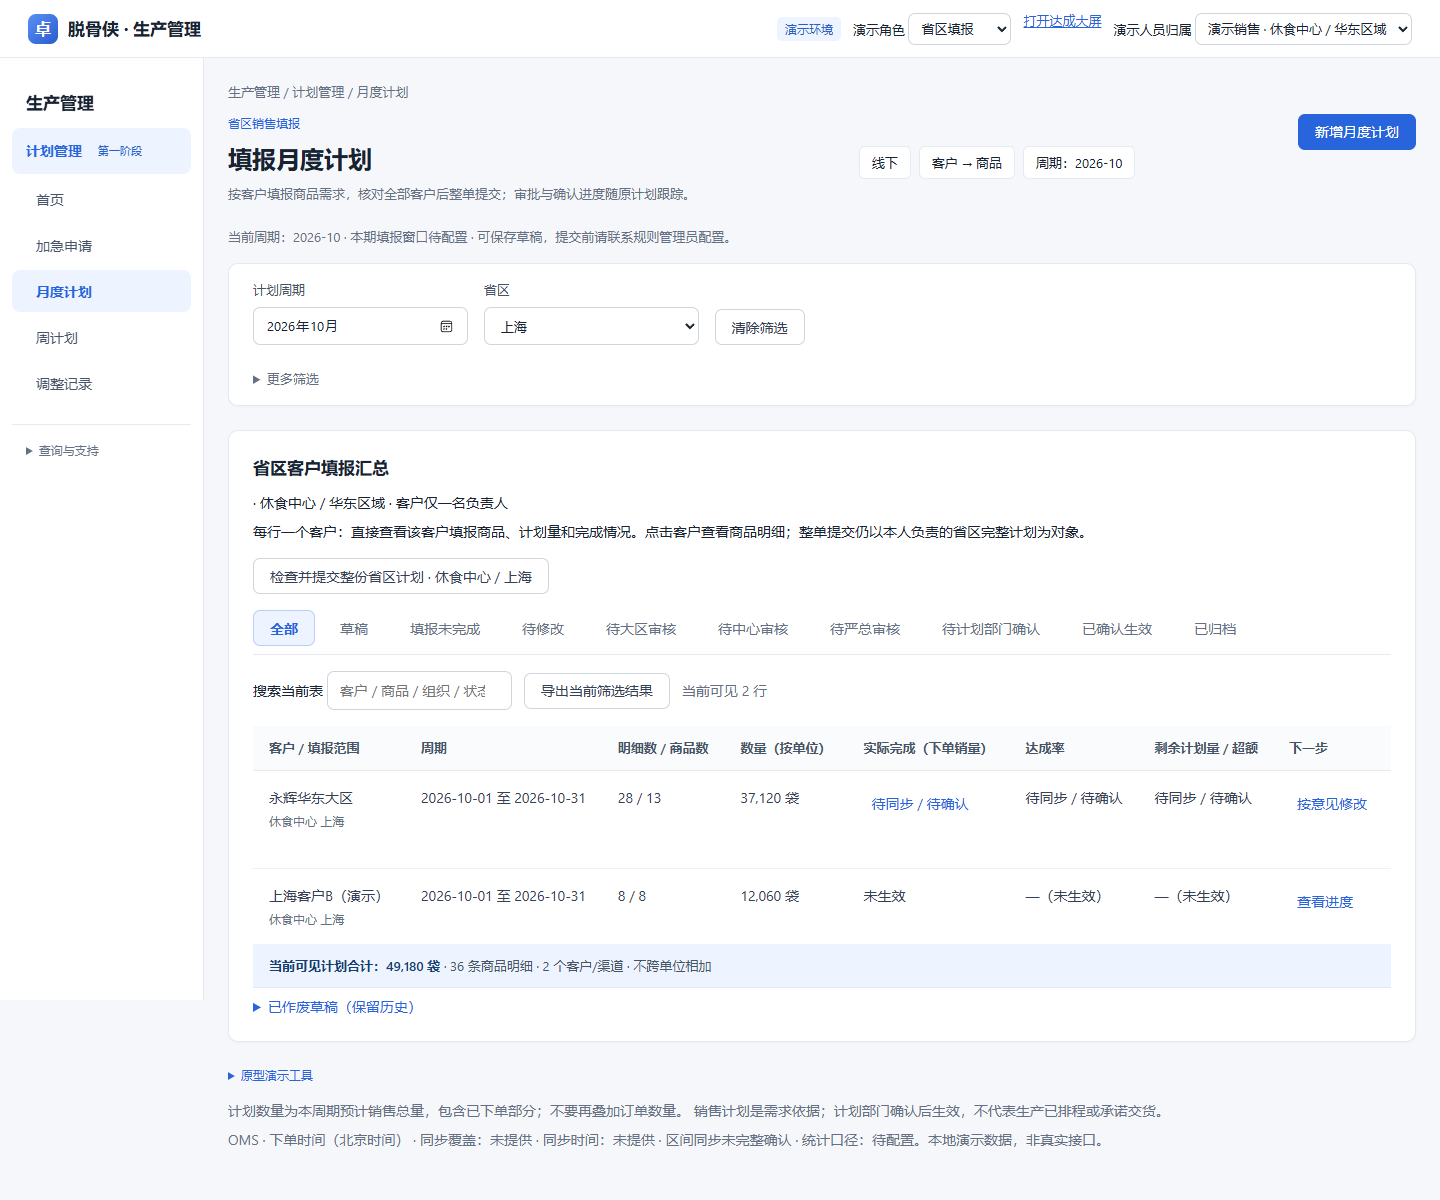
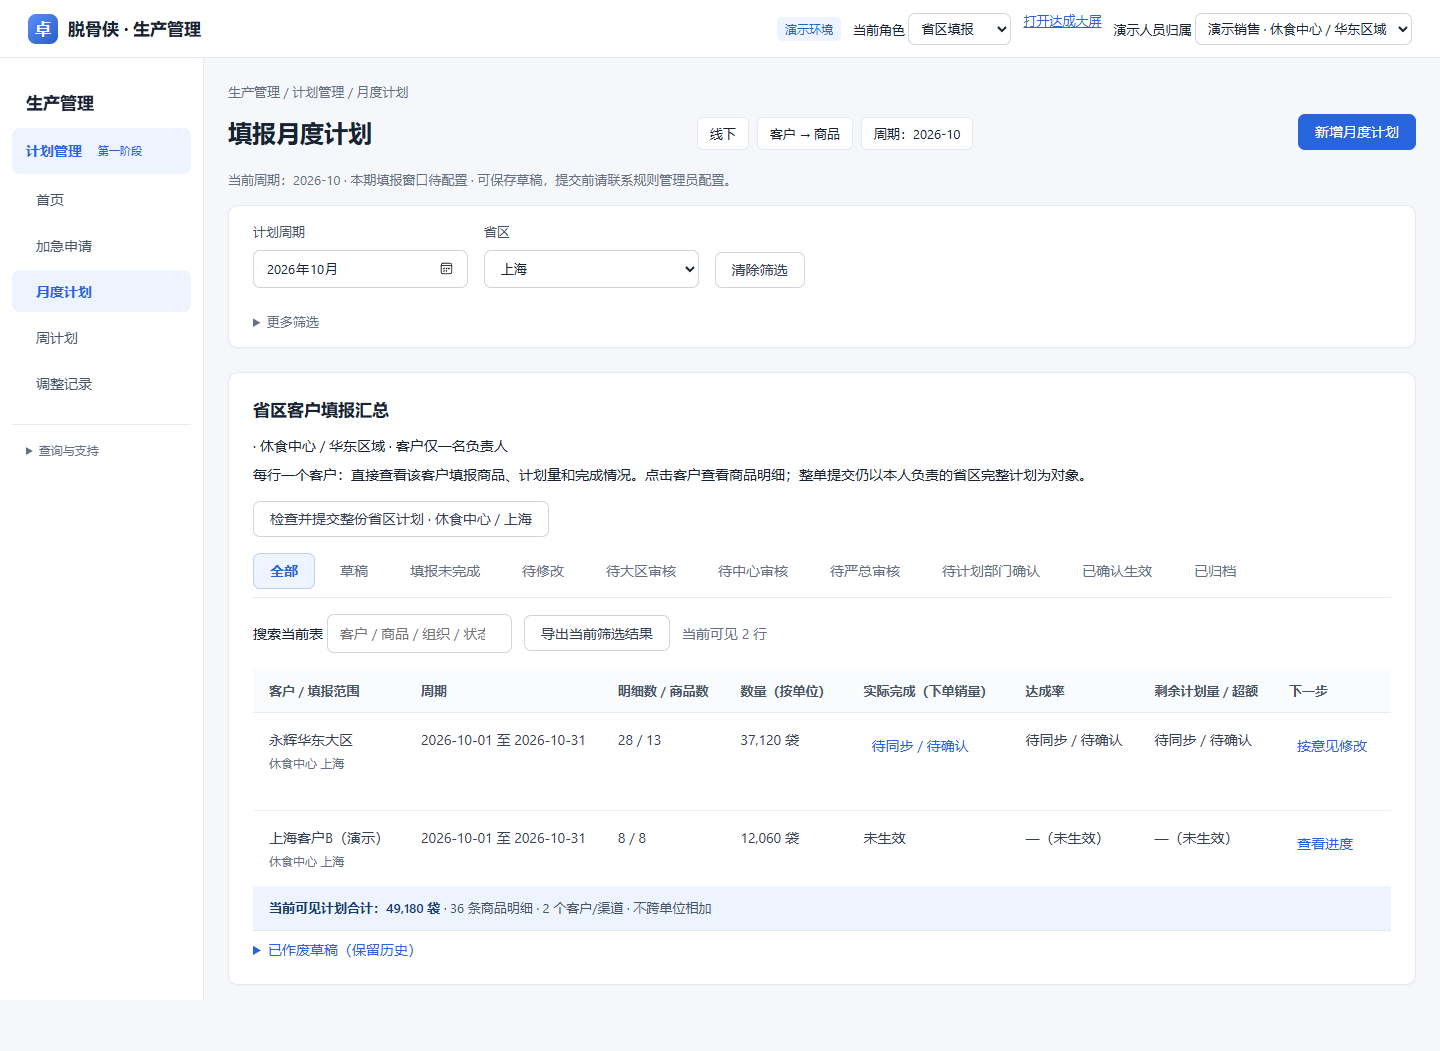
Auto sync 2026-10-14 09:54:40

diff --git a/09-设计与原型/销售计划管理/销售计划管理.css b/09-设计与原型/销售计划管理/销售计划管理.css
@@ -90,4 +90,6 @@ body:not(.screen) header{height:auto;min-height:58px}#salesPerson{max-width:360p
 .adjust-record-table>tbody>tr>td:nth-child(4){white-space:normal;min-width:200px;max-width:300px;overflow-wrap:anywhere}
 /* 正式系统视图：隐藏说明性辅助文案，保留错误、状态、业务证据和操作反馈。 */
 .system-helper-hidden,.task-context>div>p,.task-eyebrow,.phase-banner,.role-demo-tools,#content>[data-trust]{display:none!important}
+main>.notice:first-child{display:none!important}
+
 

diff --git a/09-设计与原型/销售计划管理/README.md b/09-设计与原型/销售计划管理/README.md
@@ -65,3 +65,8 @@
 
 填报角色左侧“加急申请”→“发起加急申请”→选择关联原计划→选择数量调整或内容调整→填写差异及原因→提交。已确认原计划列表也有“加急申请”操作。申请独立留痕但不是另一份重复累计的生效需求，确认前原计划保持不变，确认后更新版本。数量调整直接交计划部门确认；内容调整沿用线下大区→中心→严总或线上领导→丹总，最后计划部门确认。未确认、锁定、归档或已有处理中申请的原计划不可发起。测试入口保留十条既有节点数据，新申请不冒充测试申请。
 
+### 正式系统展示（2026-10-14）
+
+默认隐藏角色职责长说明、阶段流程横幅、原型工具、推荐操作、模拟配置说明及重复的计划口径提醒，不删除数据和业务功能。保留字段标签、主操作、筛选、审批状态、确认数量差异、审批证据、空状态、错误原因和操作结果反馈。辅助说明使用 system-helper-hidden 展示层隐藏，不更改审核或生效规则。
+
+
